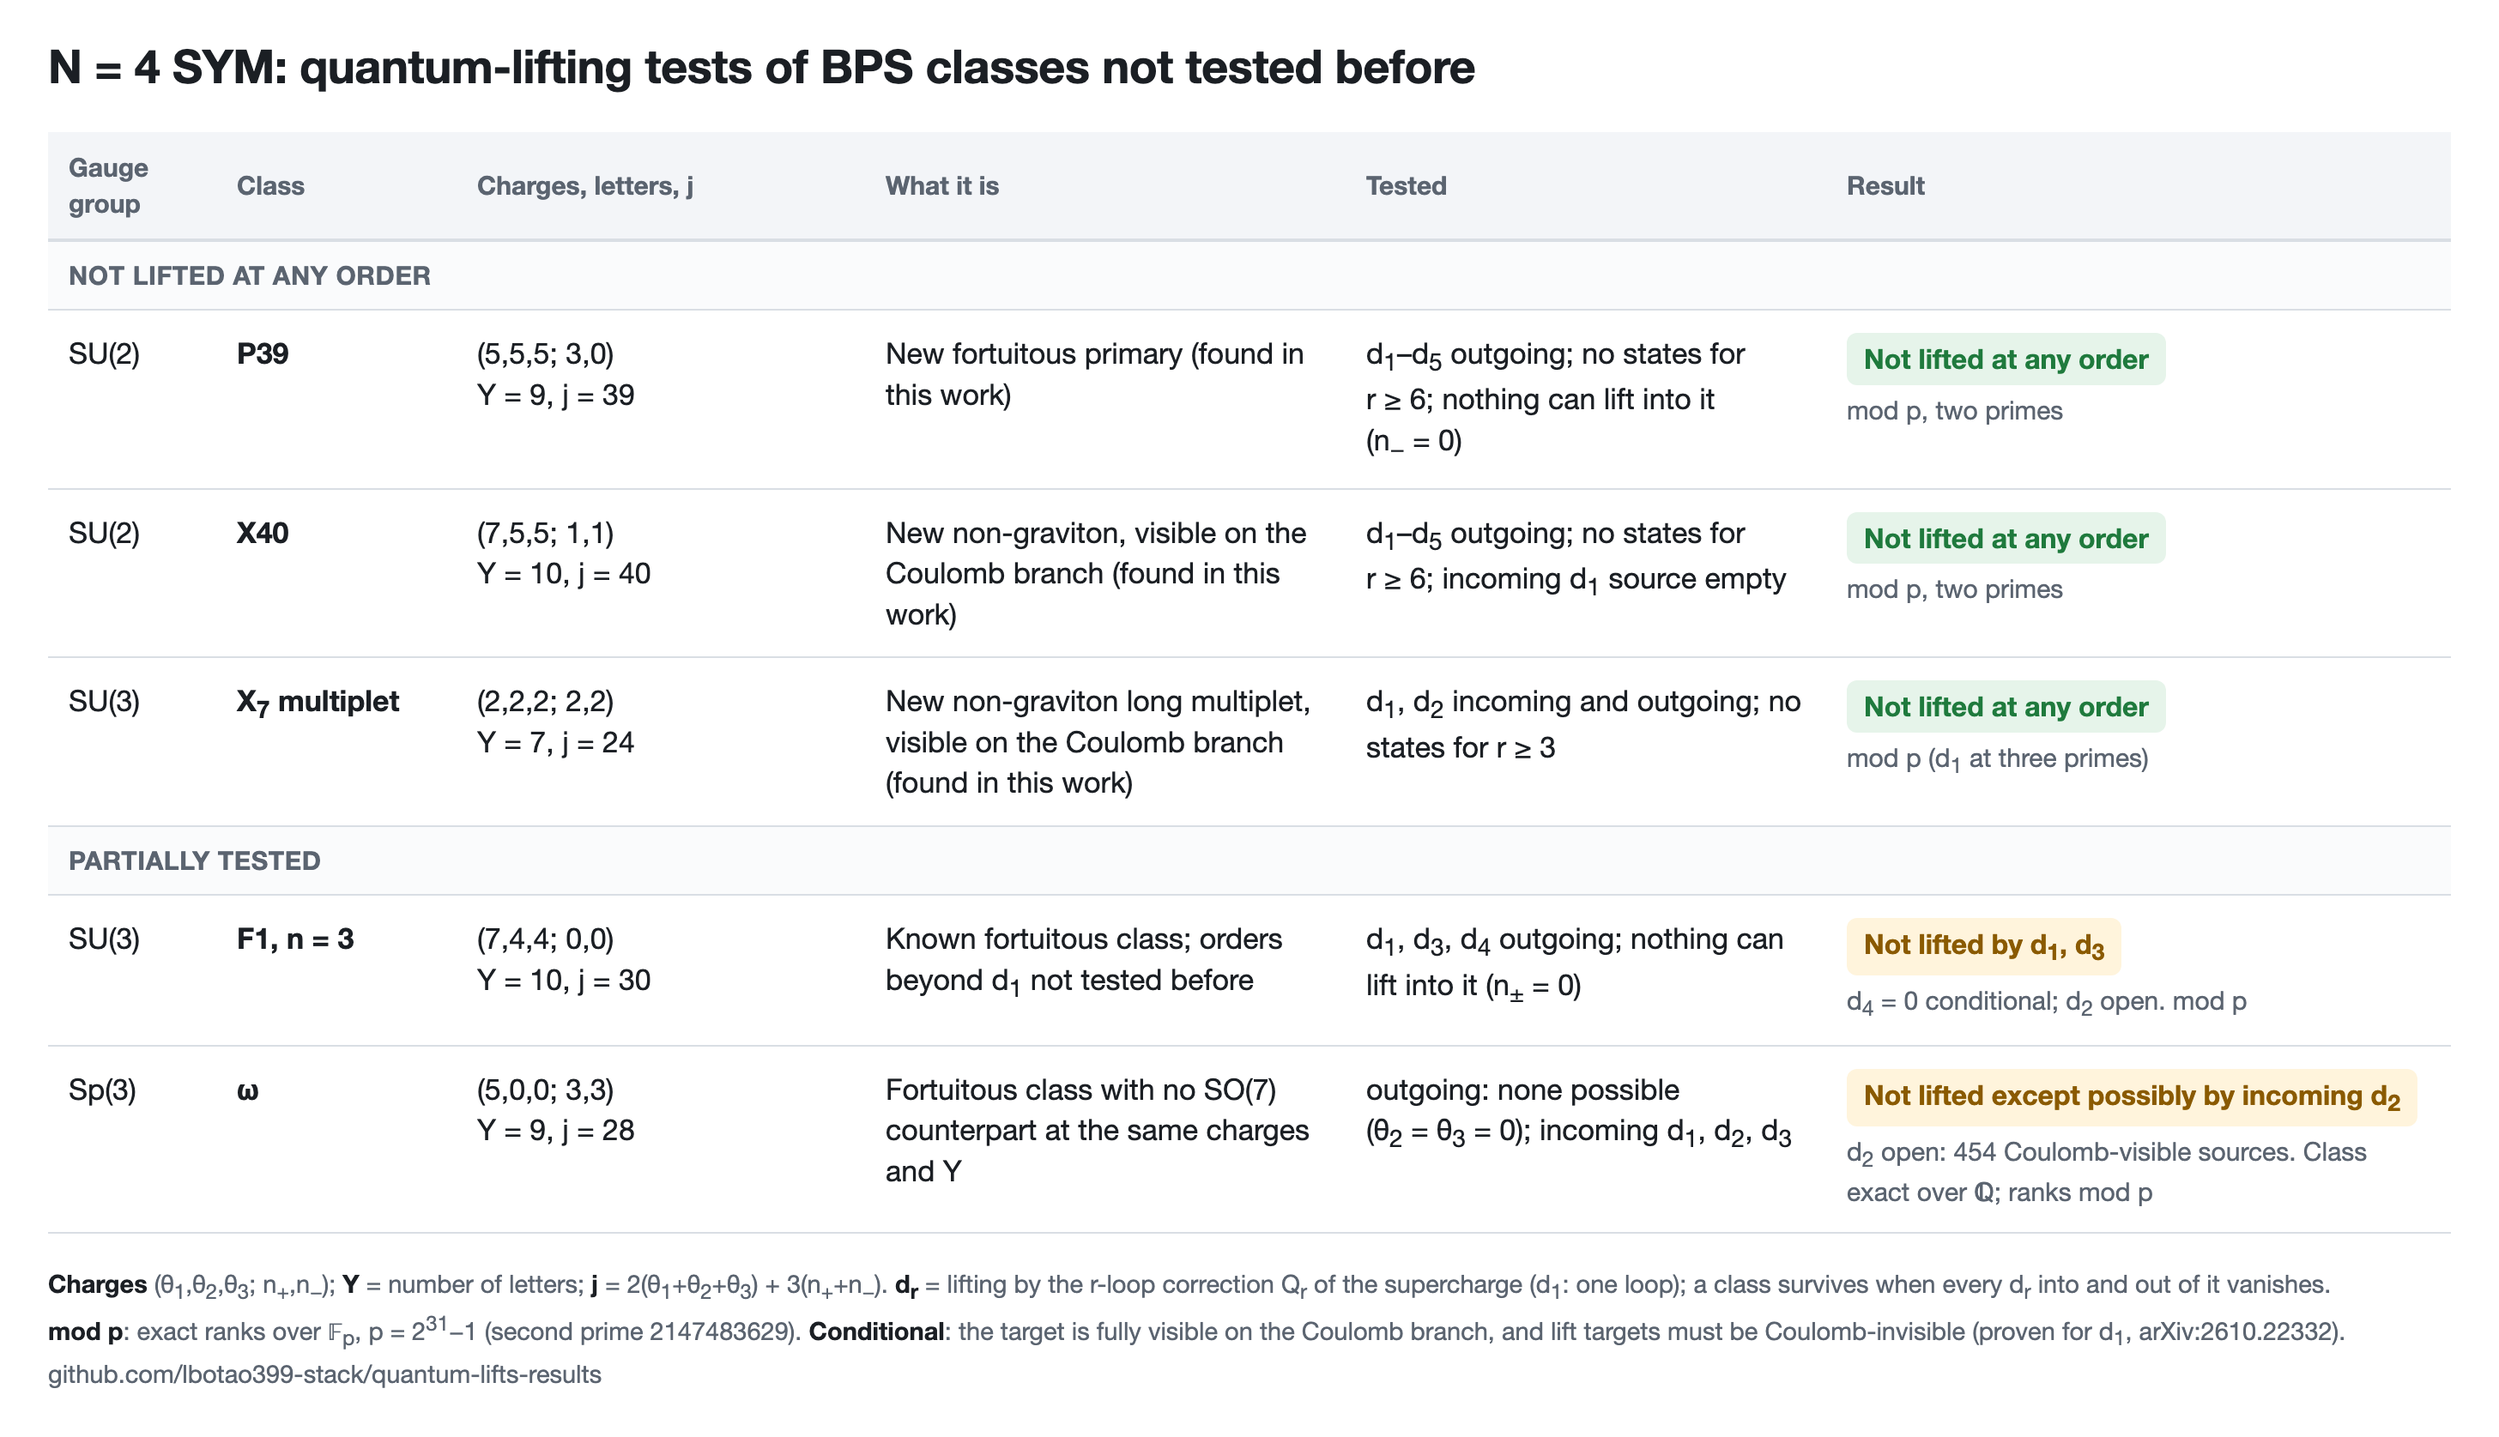
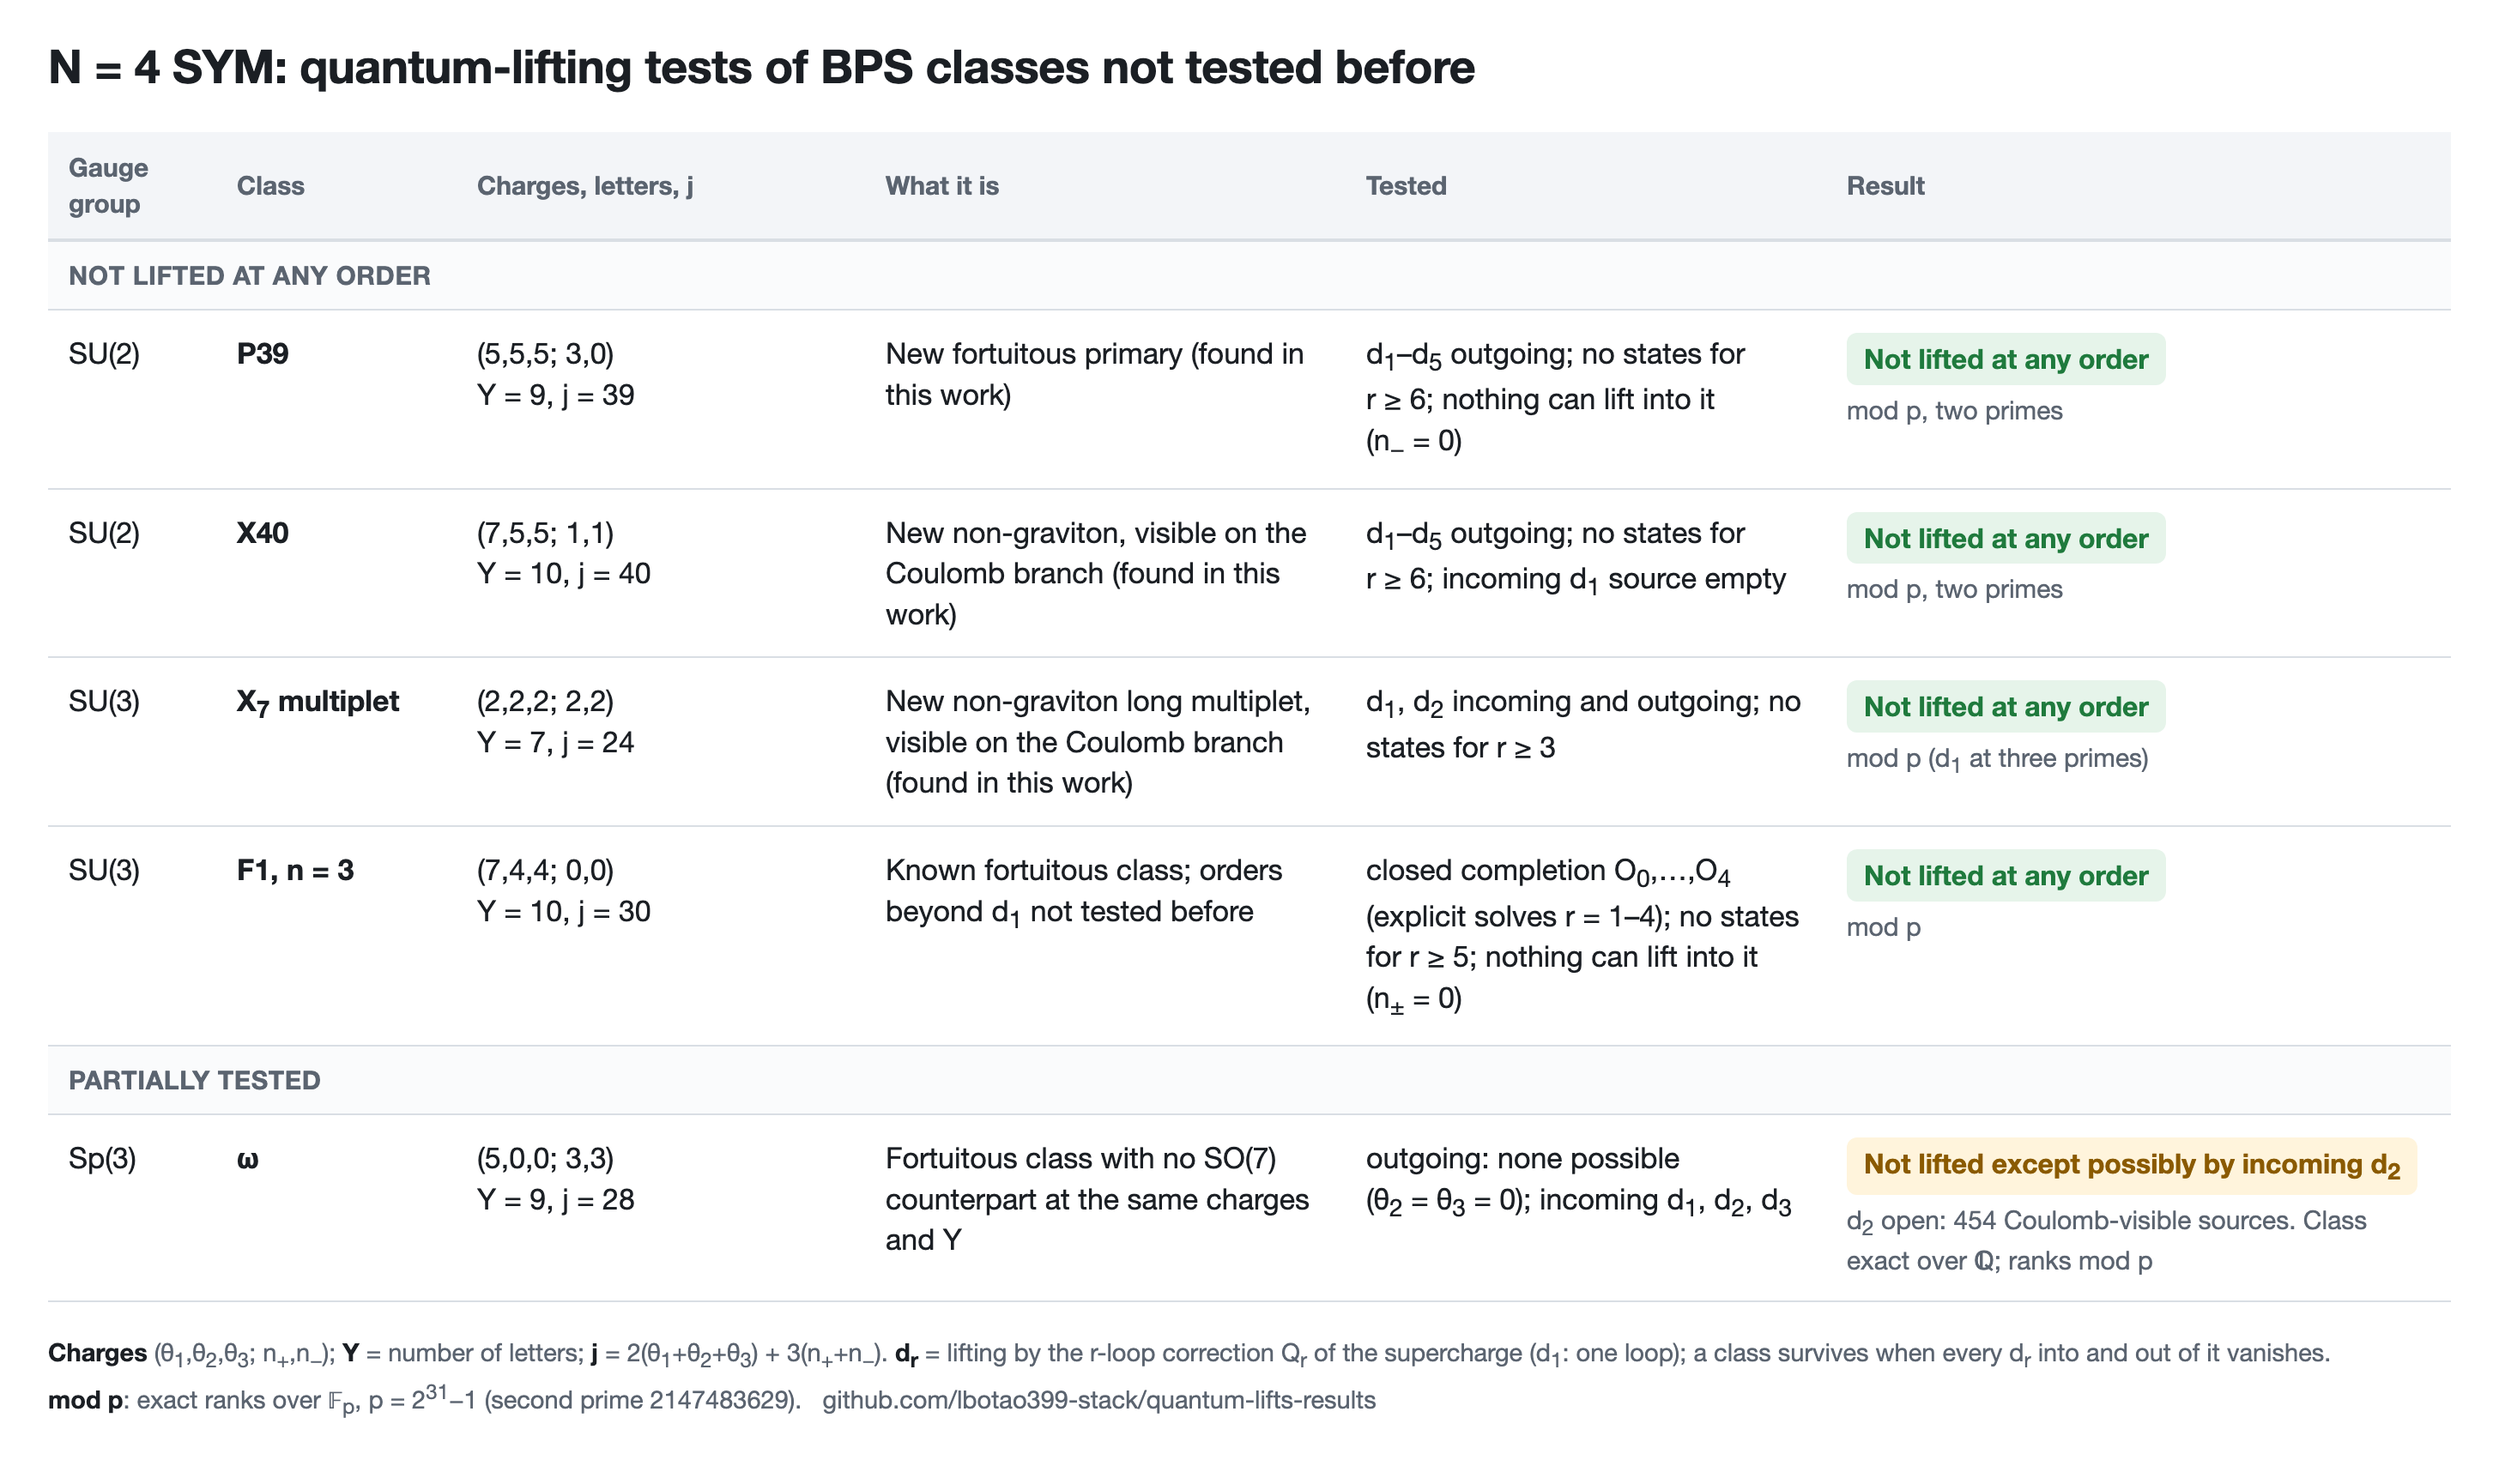
F1 n=3 (SU(3), j30): closed completion O0..O4, not lifted at any order (mod p)

diff --git a/summary_table.html b/summary_table.html
@@ -59,14 +59,15 @@
   <td><span class="badge ok">Not lifted at any order</span><span class="sub">mod p (d<sub>1</sub> at three primes)</span></td>
 </tr>
 
-<tr class="sec"><td colspan="6">Partially tested</td></tr>
 <tr>
   <td>SU(3)</td><td class="cls">F1, n = 3</td>
   <td class="q">(7,4,4; 0,0)<br>Y = 10, j = 30</td>
   <td>Known fortuitous class; orders beyond d<sub>1</sub> not tested before</td>
-  <td>d<sub>1</sub>, d<sub>3</sub>, d<sub>4</sub> outgoing; nothing can lift into it <span class="q">(n<sub>±</sub> = 0)</span></td>
-  <td><span class="badge part">Not lifted by d<sub>1</sub>, d<sub>3</sub></span><span class="sub">d<sub>4</sub> = 0 conditional; d<sub>2</sub> open. mod p</span></td>
+  <td>closed completion O<sub>0</sub>,…,O<sub>4</sub> (explicit solves r = 1–4); no states for r&nbsp;≥&nbsp;5; nothing can lift into it <span class="q">(n<sub>±</sub> = 0)</span></td>
+  <td><span class="badge ok">Not lifted at any order</span><span class="sub">mod p</span></td>
 </tr>
+
+<tr class="sec"><td colspan="6">Partially tested</td></tr>
 <tr>
   <td>Sp(3)</td><td class="cls">ω</td>
   <td class="q">(5,0,0; 3,3)<br>Y = 9, j = 28</td>
@@ -80,7 +81,7 @@
 <b>Charges</b> (θ<sub>1</sub>,θ<sub>2</sub>,θ<sub>3</sub>; n<sub>+</sub>,n<sub>−</sub>); <b>Y</b> = number of letters; <b>j</b> = 2(θ<sub>1</sub>+θ<sub>2</sub>+θ<sub>3</sub>) + 3(n<sub>+</sub>+n<sub>−</sub>).
 <b>d<sub>r</sub></b> = lifting by the r-loop correction Q<sub>r</sub> of the supercharge (d<sub>1</sub>: one loop); a class survives when every d<sub>r</sub> into and out of it vanishes.<br>
 <b>mod p</b>: exact ranks over 𝔽<sub>p</sub>, p = 2<sup>31</sup>−1 (second prime 2147483629).
-<b>Conditional</b>: the target is fully visible on the Coulomb branch, and lift targets must be Coulomb-invisible (proven for d<sub>1</sub>, arXiv:2610.22332).
+
 &nbsp; github.com/lbotao399-stack/quantum-lifts-results
 </div>
 </div>

diff --git a/README.md b/README.md
@@ -11,10 +11,10 @@ Botao Li, October 2026. Companion to [All-loop-holomorphic-kernels](https://gith
 | SU(2) | **P39** | $(5,5,5;3,0)$, $Y=9$, $j=39$ | new fortuitous primary | $d_1,\dots,d_5$ outgoing; no states for $r\ge6$; no incoming ($n_-=0$) | **not lifted at any order** (mod p, two primes) |
 | SU(2) | **X40** | $(7,5,5;1,1)$, $Y=10$, $j=40$ | new non-graviton, Coulomb-visible | $d_1,\dots,d_5$ outgoing; no states for $r\ge6$; incoming $d_1$ source empty | **not lifted at any order** (mod p, two primes) |
 | SU(3) | **$X_7$ multiplet** | $(2,2,2;2,2)$, $Y=7$, $j=24$ | new non-graviton long multiplet, Coulomb-visible | $d_1,d_2$ incoming and outgoing; no states for $r\ge3$ | **not lifted at any order** (mod p; $d_1$ at three primes) |
-| SU(3) | F1, $n=3$ | $(7,4,4;0,0)$, $Y=10$, $j=30$ | known fortuitous class; orders beyond $d_1$ not tested before | $d_1,d_3,d_4$ outgoing; no incoming ($n_\pm=0$) | not lifted by $d_1,d_3$; $d_4=0$ conditional; $d_2$ open (mod p) |
+| SU(3) | **F1, $n=3$** | $(7,4,4;0,0)$, $Y=10$, $j=30$ | known fortuitous class; orders beyond $d_1$ not tested before | closed completion $O_0,\dots,O_4$ (explicit solves at $r=1,\dots,4$); no states for $r\ge5$; no incoming ($n_\pm=0$) | **not lifted at any order** (mod p) |
 | Sp(3) | $\omega$ | $(5,0,0;3,3)$, $Y=9$, $j=28$ | fortuitous, no SO(7) counterpart at the same charges and $Y$ | no outgoing ($\theta_2=\theta_3=0$); incoming $d_1,d_2,d_3$ | not lifted except possibly by incoming $d_2$ (454 Coulomb-visible sources) |
 
-$d_r$ = lifting by the $r$-loop correction $Q_r$ of the supercharge ($d_1$: one loop). Conditional: see §3.2.
+$d_r$ = lifting by the $r$-loop correction $Q_r$ of the supercharge ($d_1$: one loop).
 
 ## 0. Setup
 
@@ -44,7 +44,7 @@ Certification levels: **[Q]** exact over $\mathbb Q$; **[p]** ranks modulo $p=2^
 | SU(2) | X40 (new primary) | $(7,5,5;1,1)$; $Y10$, $j40$ | Coulomb-visible non-graviton, $(h,\rho,g)=(8,8,7)$ | **survives all orders**: closed completion $\sum_{r\le5}\hbar^rO_r$; incoming $d_1$ source empty | [p,p'] |
 | SU(3) | $X_7$ (new multiplet) | $(2,2,2;2,2)$; $Y7$, $C=-1$, $j24$ | Coulomb-visible non-graviton, $(h,\rho,g)=(26,26,25)$; one long multiplet (35 HW blocks, $j=24,\dots,30$) | **survives all orders**: $d_1=0$ in and out; $d_2$ target $(0,0,0;4,4)Y6$ empty; incoming $d_2$ source empty in $C=-1$; no pages $r\ge3$ | [p] ($d_1$: three primes) |
 | SU(3) | $X_7$ pure-ghost member | $(0,0,0;5,5)$; $Y7$, $j30$ | exact rational representative (26 trace generators) | incoming $d_1=0$; no outgoing pages | class [Q]; $d_1$ [p] |
-| SU(3) | F1 $n=3$ | $(7,4,4;0,0)$; $Y10$, $C=-1$, $j30$ | fortuitous (known) | $d_1=0$, $d_3=0$ (targets empty); $d_4=0$ [cond] (target $h=\rho=34$); **$d_2$ open** (target $h=609,\rho=608$) | [p] |
+| SU(3) | F1 $n=3$ | $(7,4,4;0,0)$; $Y10$, $C=-1$, $j30$ | fortuitous (known) | **survives all orders**: closed completion $\sum_{r\le4}\hbar^rO_r$ ($R_2$ exact with the direct $O_1$; $d_2$ target $h=609,\rho=608$); no states for $r\ge5$; no incoming | [p] |
 | SU(3) | new primary | $(7,4,4;1,0)$; $Y11$, $C=+1$, $j33$ | $h=2,\rho=0$ (one F1 $n=4$ descendant + one new class) | $d_3=0$ (target empty); $d_4=0$ [cond] (target $h=\rho=63$); $d_1,d_2$ open; no incoming | [p] |
 | Sp(3) | $\omega$ | $(5,0,0;3,3)$; $Y9$, $j28$ | fortuitous; $h=1$, $\rho=0$; absent in SO(7) at this $(\lambda,Y)$ | no outgoing differential ($\theta_2=\theta_3=0$); incoming $d_1$, $d_3$ impossible (sources $h=0$); incoming $d_2$ only from 454 Coulomb-visible classes at $(7,2,2;1,1)Y10$ | class [Q]; sources [p] |
 | SO(7) | $\beta$ | $(6,1,1;2,2)$; $Y10$ | Cartan-null, $h-\rho=1$ (Sp(3): 0) | only one-loop dynamics possible (incoming $d_2$ source empty, outgoing $r\le1$) | [p] |
@@ -53,11 +53,11 @@ Certification levels: **[Q]** exact over $\mathbb Q$; **[p]** ranks modulo $p=2^
 
 ### 1.1 Proven not lifted at any order
 
-$$\text{SU(2): } O_0\ (j24),\quad \text{P39}\ (j39),\quad \text{X40}\ (j40);\qquad \text{SU(3): } X_7\ (j24).$$
+$$\text{SU(2): } O_0\ (j24),\quad \text{P39}\ (j39),\quad \text{X40}\ (j40);\qquad \text{SU(3): } X_7\ (j24),\quad \text{F1}_{n=3}\ (j30).$$
 
 ### 1.2 Partial exclusions
 
-$$\text{F1: } d_1=d_3=0,\ d_4=0\ [\text{cond}],\ d_2\ \text{open};\qquad j33:\ d_3=0,\ d_4=0\ [\text{cond}];\qquad \omega:\ \text{only incoming } d_2\ \text{remains}.$$
+$$j33:\ d_3=0,\ d_4=0\ [\text{cond}];\qquad \omega:\ \text{only incoming } d_2\ \text{remains}.$$
 
 ### 1.3 Lifted
 
@@ -97,12 +97,15 @@ SU(3) $X_7$, $(2,2,2;2,2)Y7$, $C=-1$ [p]:
 
 SU(3) F1 $n=3$, $(7,4,4;0,0)Y10$, $C=-1$ [p]:
 
-| $r$ | target | $\dim$ | $h$ | $\rho$ |
-|---|---|---|---|---|
-| 1 | $(6,3,3;1,1)$, 10 | 34430 | 0 | 0 |
-| 2 | $(5,2,2;2,2)$, 9 | – | 609 | 608 |
-| 3 | $(4,1,1;3,3)$, 8 | 26400 | 0 | 0 |
-| 4 | $(3,0,0;4,4)$, 7 | 1896 | 34 | 34 |
+| $r$ | target | $\dim$ | $h$ | $\rho$ | residual | correction $O_r$ (coordinates; rank of $Q_0$ into target) | verdict |
+|---|---|---|---|---|---|---|---|
+| 1 | $(6,3,3;1,1)$, 10 | 34430 | 0 | 0 | $Q_1O_0$ | $O_1$ at $Y9$ (28311; 18003) | exact |
+| 2 | $(5,2,2;2,2)$, 9 | 63983 | 609 | 608 | $R_2=Q_2O_0+Q_1O_1$ | $O_2$ at $Y8$ (49328; 32144) | exact |
+| 3 | $(4,1,1;3,3)$, 8 | 26400 | 0 | 0 | $R_3=Q_2O_1+Q_1O_2$ | $O_3$ at $Y7$ (18919; 13063) | exact |
+| 4 | $(3,0,0;4,4)$, 7 | 1896 | 34 | 34 | $R_4=Q_3O_1+Q_2O_2+Q_1O_3$ | $O_4$ at $Y6$ (1169; 825) | exact |
+| $\ge5$ | $\theta_I<0$ | – | – | – | – | – | no cochains |
+
+$Q_3O_0=Q_4O_0=0$. $Q_n$ applied to trace-word generators by colour reconnection, coordinates at AH3 probe frames.
 
 Sp(3) $\omega$ orbit (classes with equal physical charges) [p]:
 
@@ -146,4 +149,4 @@ $$\mathrm{im}\,(\text{relative Feigin map})\cap H^7_{(5,5)}=0\ \Longrightarrow\ 
 
 ## 5. Open
 
-$$\text{F1: } d_2;\qquad j33:\ d_1,d_2;\qquad \omega:\ \text{incoming }d_2\ (\text{454 Coulomb-visible sources});\qquad \text{§3.2 at all orders}.$$
+$$j33:\ d_1,d_2;\qquad \omega:\ \text{incoming }d_2\ (\text{454 Coulomb-visible sources});\qquad \text{§3.2 at all orders}.$$
